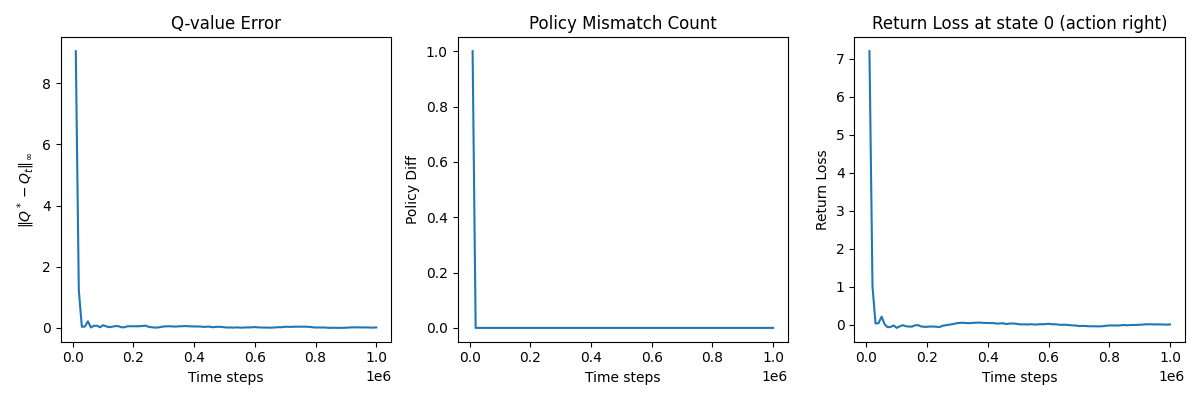
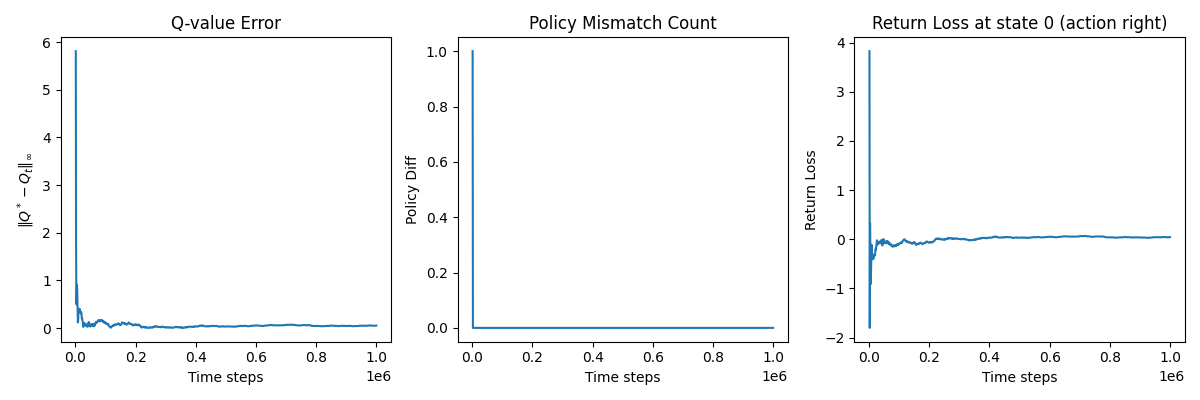
Run ce-opo on intervals of 1000 steps

diff --git a/Home Assignment 3/Code/RiverSwim_CE-OPO.py b/Home Assignment 3/Code/RiverSwim_CE-OPO.py
@@ -151,7 +151,7 @@ true_R = env.R.copy()
 
 print("Running CE-OPO on the original RiverSwim MDP...")
 results_original = ce_opo(env, true_P, true_R, gamma=0.98, epsilon=0.15,
-                           alpha_smooth=0.1, horizon=int(1e6), eval_interval=10000)
+                           alpha_smooth=0.1, horizon=int(1e6), eval_interval=1000)
 
 # Plot the performance metrics.
 plt.figure(figsize=(12,4))
@@ -198,9 +198,9 @@ true_R_variant = env_variant.R.copy()
 # For evaluation, the expected reward at the rightmost state (nS-1) for action 1 is 1.
 true_R_variant[nS - 1, 1] = 1
 
-print("Running CE-OPO on the variant RiverSwim MDP (random reward at state 0, action right)...")
+print("Running CE-OPO on the variant RiverSwim MDP (random reward at state nS-1, action right)...")
 results_variant = ce_opo(env_variant, true_P, true_R_variant, gamma=0.98,
-                          epsilon=0.15, alpha_smooth=0.1, horizon=int(1e6), eval_interval=10000)
+                          epsilon=0.15, alpha_smooth=0.1, horizon=int(1e6), eval_interval=1000)
 
 # Plot the performance metrics for the variant.
 plt.figure(figsize=(12,4))
